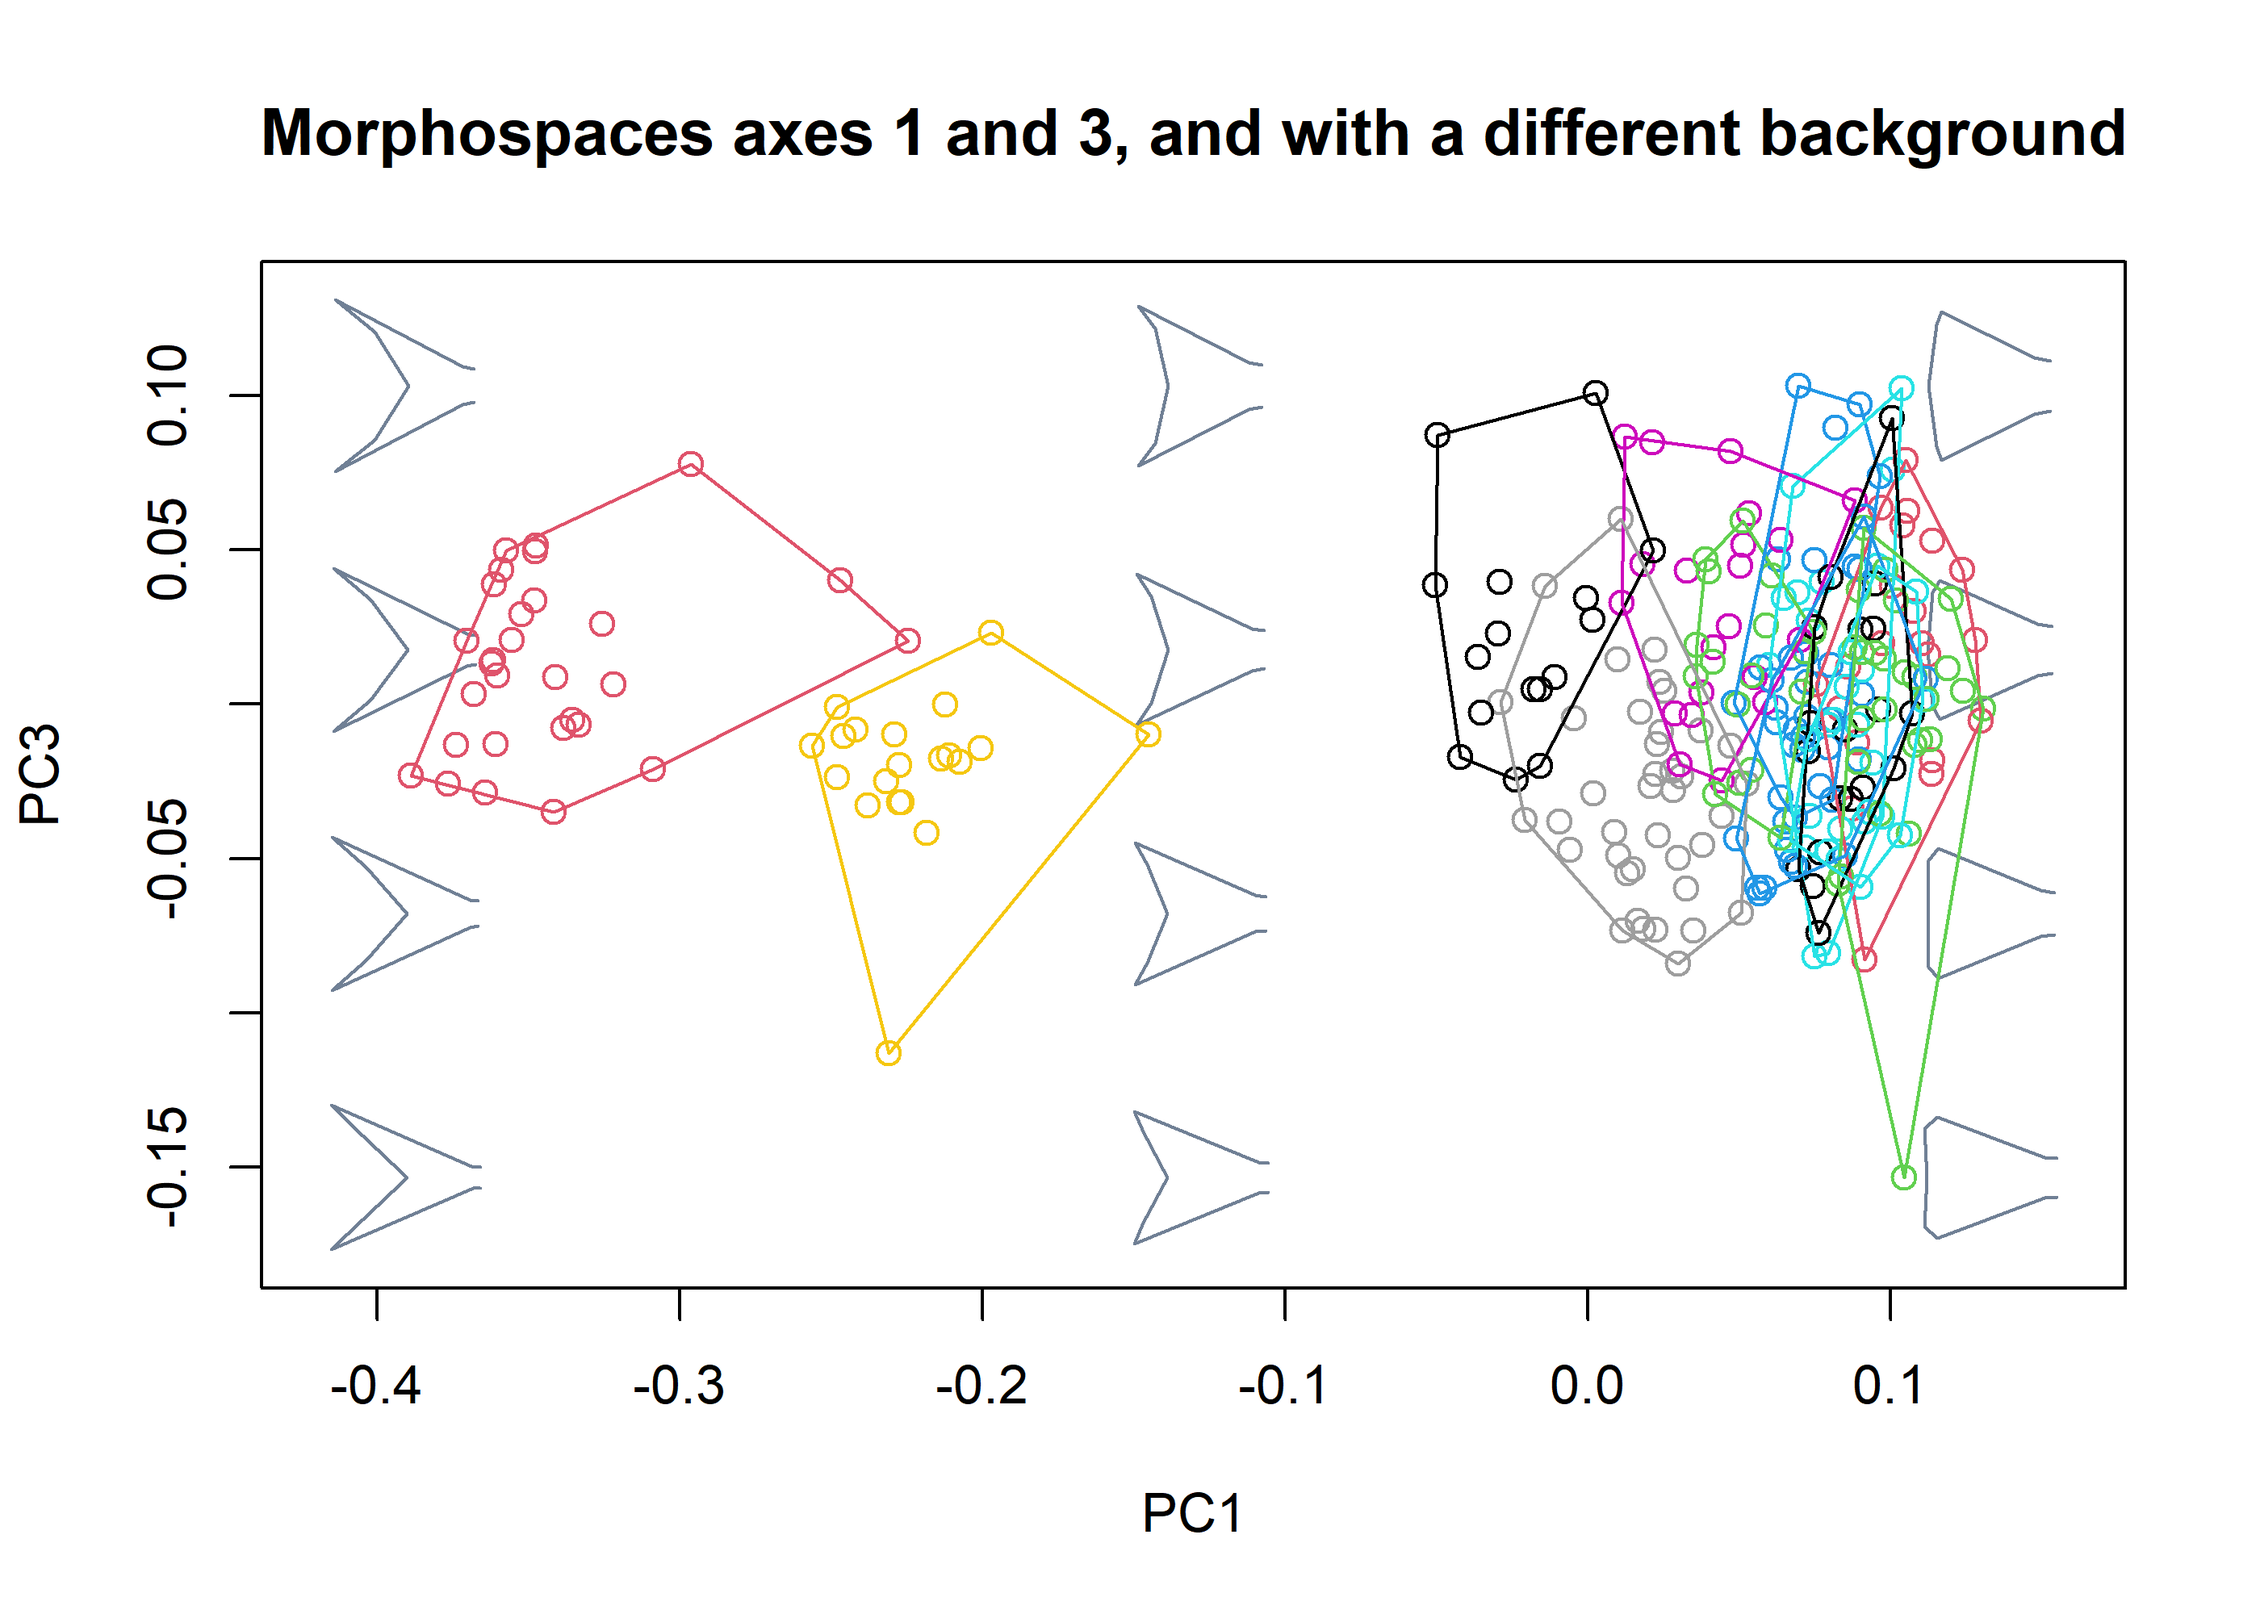
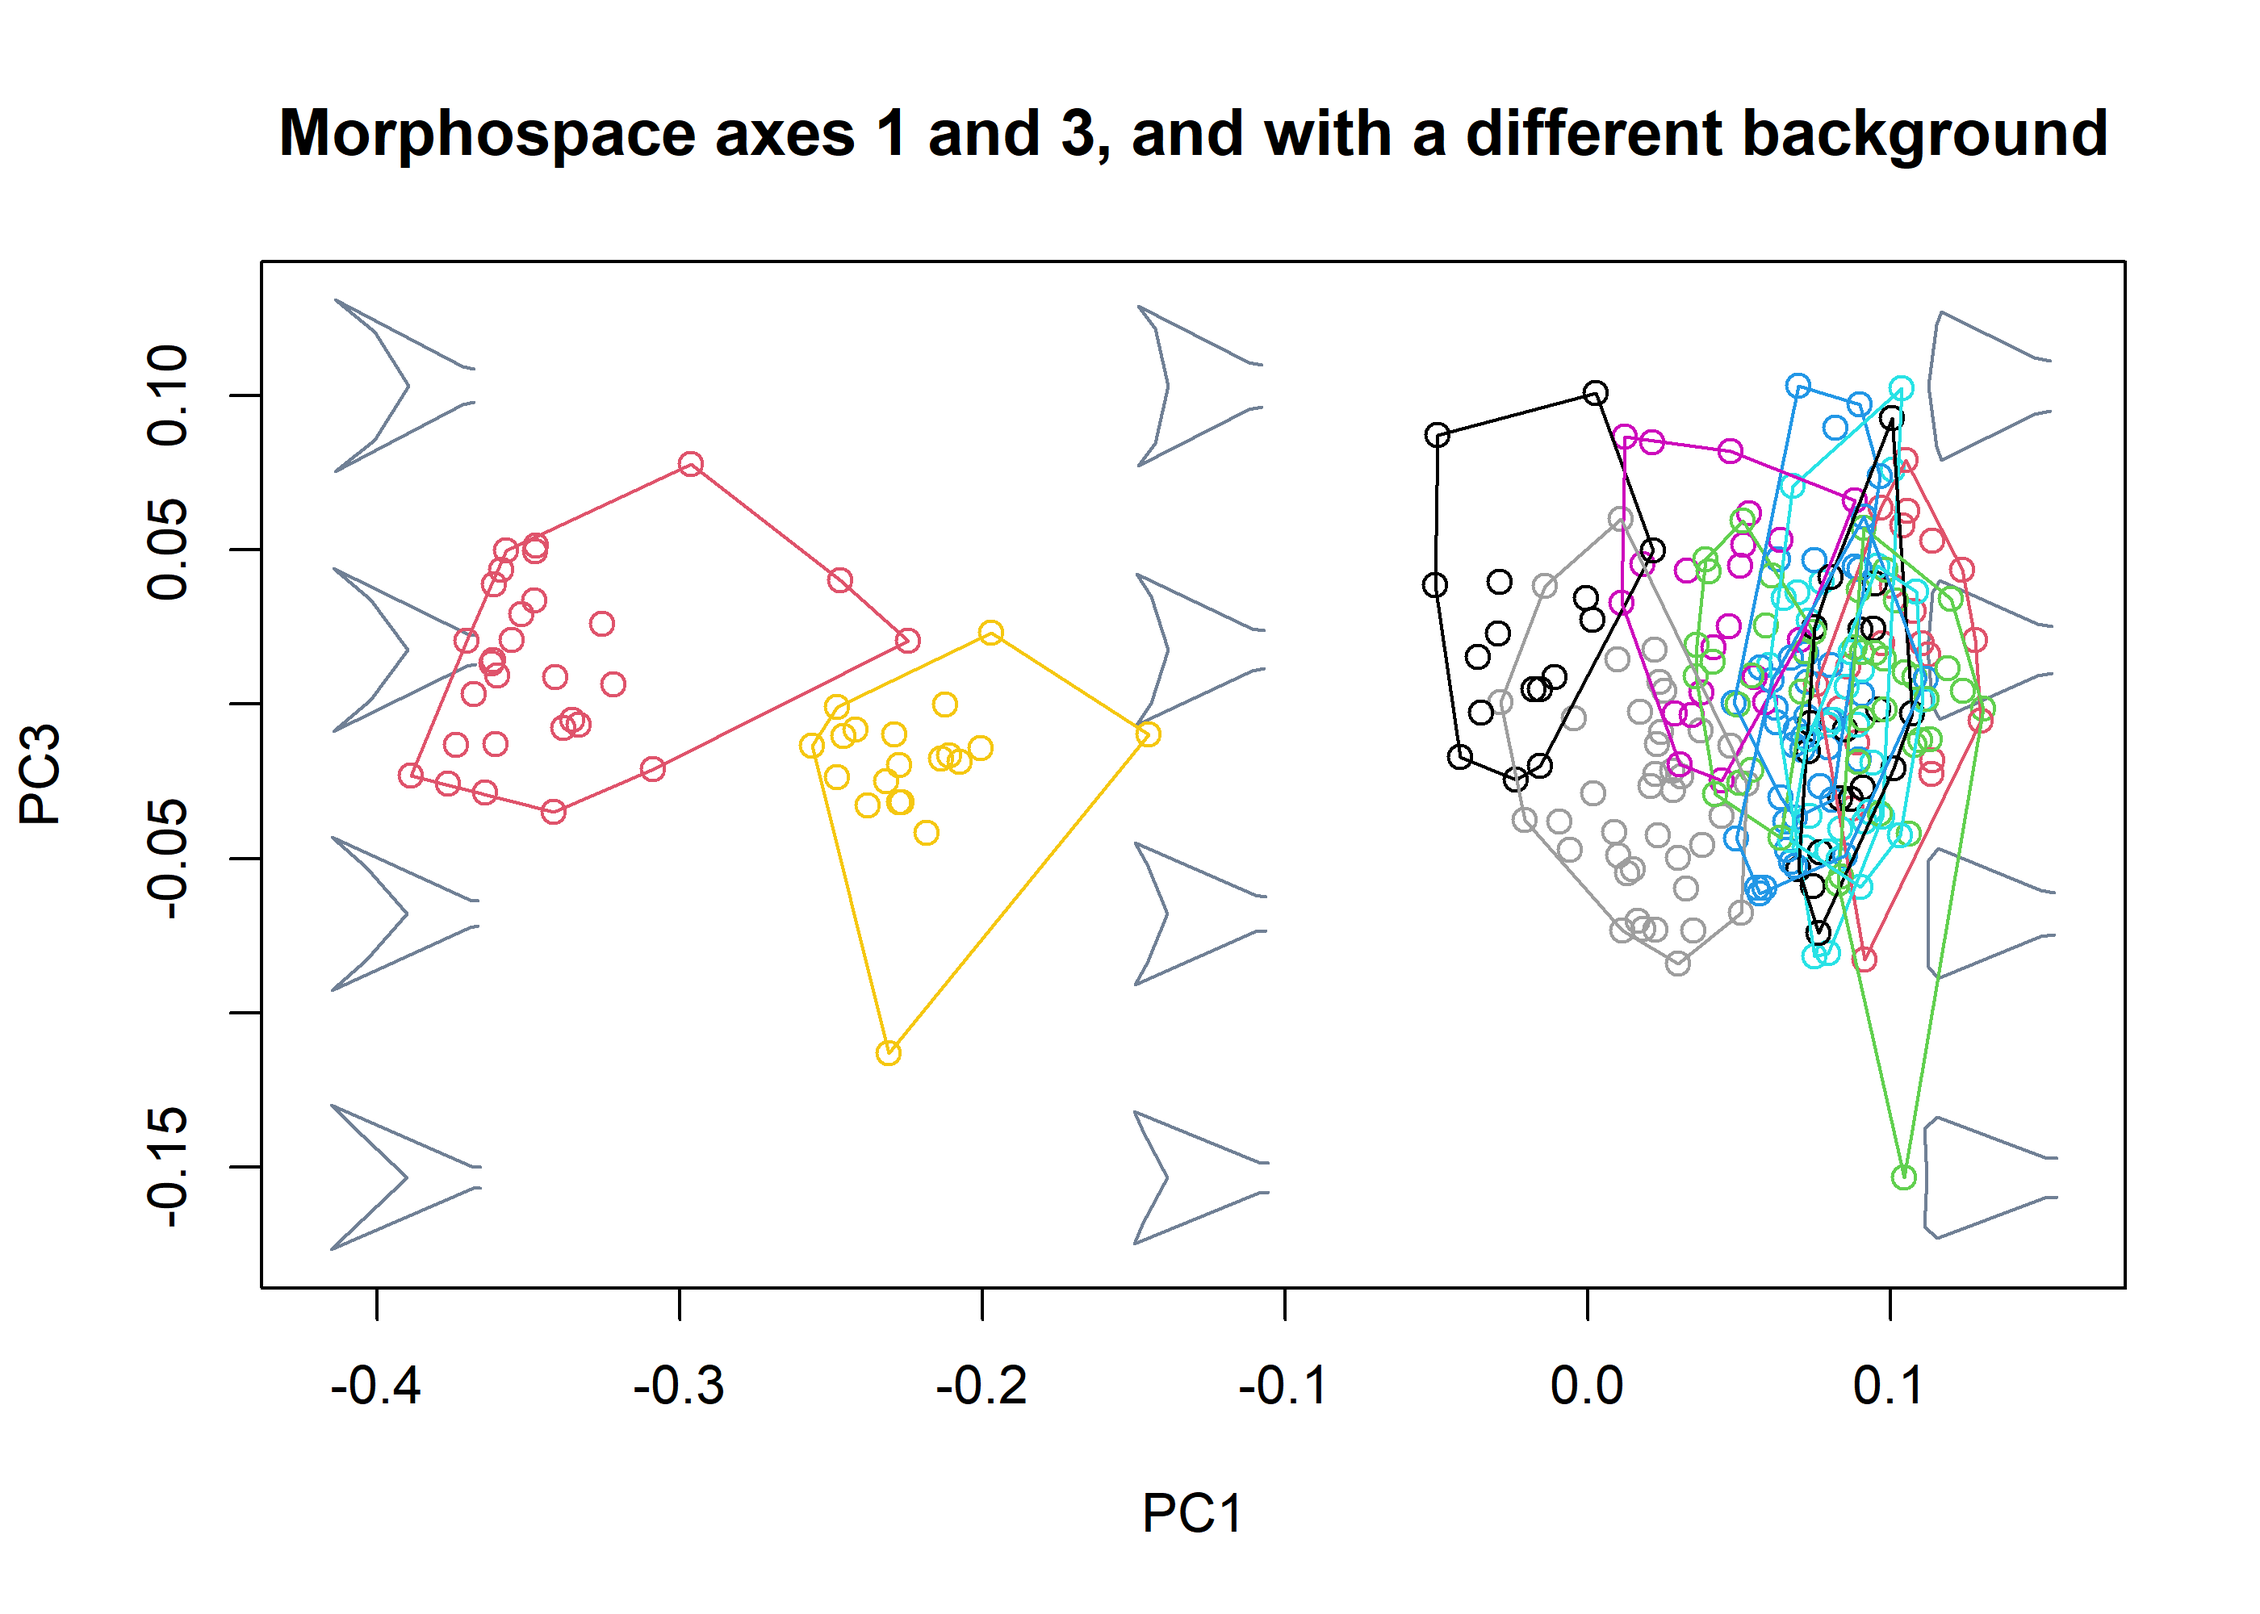
asd

Changed region(s): [[0.0932, 0.062, 0.9632, 0.124]]

diff --git a/README.md b/README.md
@@ -412,7 +412,7 @@ title("The same morphospace, plotted with plot_mspace, \n with additional elemen
 plot_mspace(mspace = morphospace, axes = c(1,3), nh = 3, groups = TRUE, points = TRUE,
             col.points = species, col.groups = 1:nlevels(species), cex.ldm = 0,
             mshapes = FALSE, phylo = FALSE)
-title("Morphospaces axes 1 and 3, and with a different background")
+title("Morphospace axes 1 and 3, and with a different background")
 ```
 
 <img src="man/figures/README-unnamed-chunk-11-4.png" width="100%" />
@@ -539,7 +539,6 @@ refined_morphospace <- mspace(detr_shapes, mag = 0.7, axes = c(1,2), FUN = bg_pr
   proj_shapes(shapes = detr_shapes, col = species) %>%
   proj_consensus(shapes = detr_mshapes, pch=16) %>%
   proj_groups(shapes = detr_shapes, groups = species)
-title("Ignore this one, is a prerequisite for the next plot")
 # Project the axis of maximum intraspecific variation of each species (i.e. a PCA
 # of the subsamples corresponding gto each species)
 for(i in 1:nlevels(species)){
@@ -581,6 +580,10 @@ morphospace <- mspace(shapes, mag = 1, axes = c(1,2), nh = 5, nv = 4,
 <img src="man/figures/README-unnamed-chunk-16-1.png" width="100%" />
 
 ``` r
+dev.off()
+#> null device 
+#>           1
+
 # Plot time axis vs first PC
 plot_mspace(mspace = morphospace, x = ages, axes = 1,
             nh = 5, nv = 4, asp.models = 0.13, mag = 0.5,
@@ -598,8 +601,6 @@ for(i in 1:4) {
 
 title("Stratomorphospace")
 ```
-
-<img src="man/figures/README-unnamed-chunk-16-2.png" width="100%" />
 
 ## References
 
